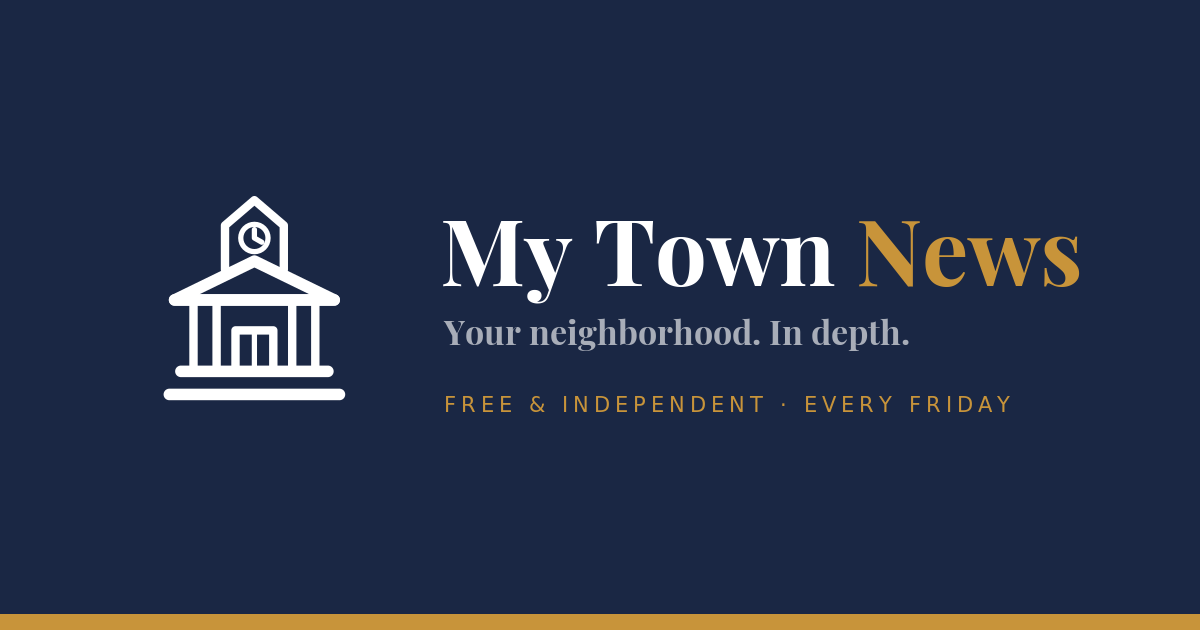
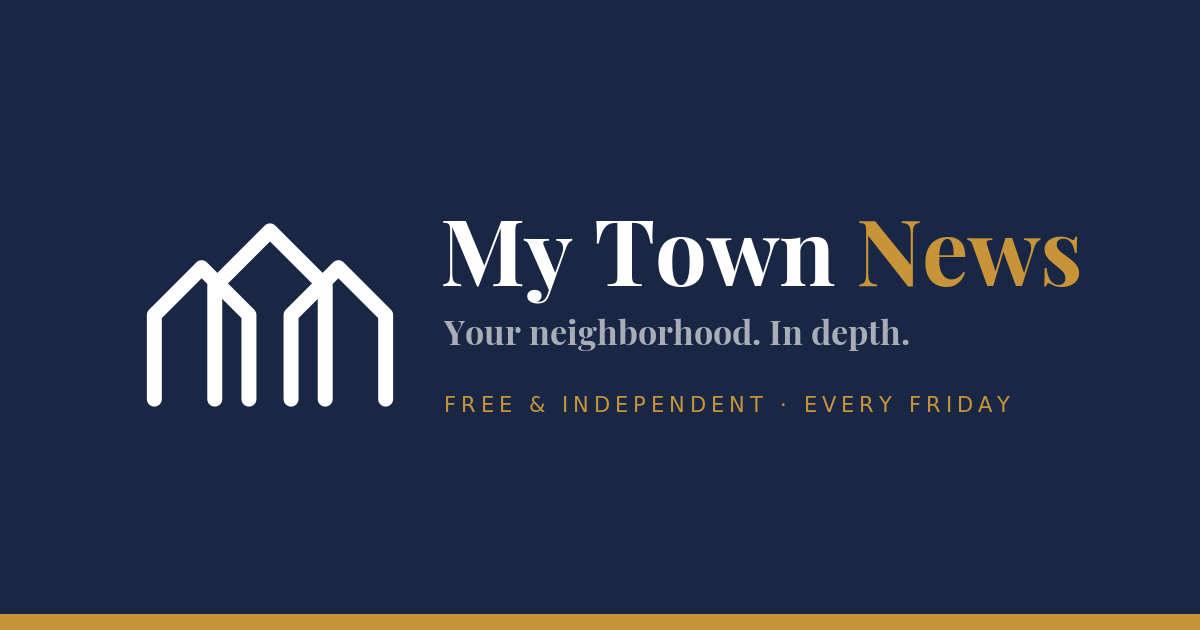
feat: replace the city hall mark with the three-house neighborhood mark
Three roofs with the centre one taller, in place of the classical civic
building. Two reasons it is a better fit: it says *neighborhood* rather
than *municipal government*, which removes the mild tension with the About
page's "not affiliated with any city agency"; and it is a more distinctive
silhouette than civic architecture, which every third local outlet uses.

Geometry is generated from five parameters and mirrored about x=128
arithmetically rather than positioned by hand, so symmetry cannot drift.
Every roof is exactly 45 degrees, so all three pitches match by
construction. Verified: right house mirrors the left to within 0.05px,
centre apex at exactly x=128, all three sharing a baseline.

The overlap is the load-bearing detail. The outer houses tuck 26 units
behind the centre house, which puts visible background between the outer
wall and the centre wall. An earlier 13-unit version read as a single
thick doubled line with no air in it. Past roughly 38 units the roofs
cross each other and it stops reading as houses at all.

mark-small.svg stays separate geometry for the 16px favicon — six vertical
wall strokes cannot survive sixteen pixels, so that variant uses wider
gaps, taller walls and thicker strokes.

Also regenerates og-image.svg, which inlined the old city hall paths
rather than referencing mark.svg. Swapping the mark alone would have left
the share card showing the old logo indefinitely, and share images are
cached hard by Slack, LinkedIn and Facebook.

Changed region(s): [[0.1233, 0.3016, 0.3392, 0.6635]]

diff --git a/src/assets/img/README.md b/src/assets/img/README.md
@@ -12,13 +12,28 @@
 
 ## Why two icon files
 
-The full mark carries a clock face, four columns and a door seam. Below
-roughly 24px those merge into an unreadable block, so `mark-small.svg`
-drops the clock, uses three columns instead of four, and thickens every
-stroke. Above 24px the detailed version is used.
+The mark is three house roofs with the centre one taller. At the detailed
+proportions that is six vertical wall strokes, which merge into a block
+below roughly 24px — so `mark-small.svg` is separate geometry: wider gaps,
+taller walls, thicker strokes. Above 24px the detailed version is used.
 
 If the mark is ever redrawn, both files need redrawing — the simplified
 one is not generated from the other.
+
+## Geometry
+
+Both marks are generated from five parameters (half-widths, overlap, wall
+heights) and mirrored about x=128 arithmetically, so symmetry cannot drift
+if someone edits them by hand. Every roof is exactly 45 degrees — rise
+equals run — so all three pitches match by construction. If you change the
+artwork, re-check that the right house still mirrors the left and that the
+centre apex sits at x=128.
+
+The overlap is deliberate: the outer houses tuck 26 units behind the centre
+house, which is what puts visible background between the outer wall and the
+centre wall. At an earlier 13-unit overlap those two strokes read as a
+single thick doubled line. Past about 38 units the roofs cross and the mark
+stops reading as houses.
 
 ## Regenerating the PNGs
 
